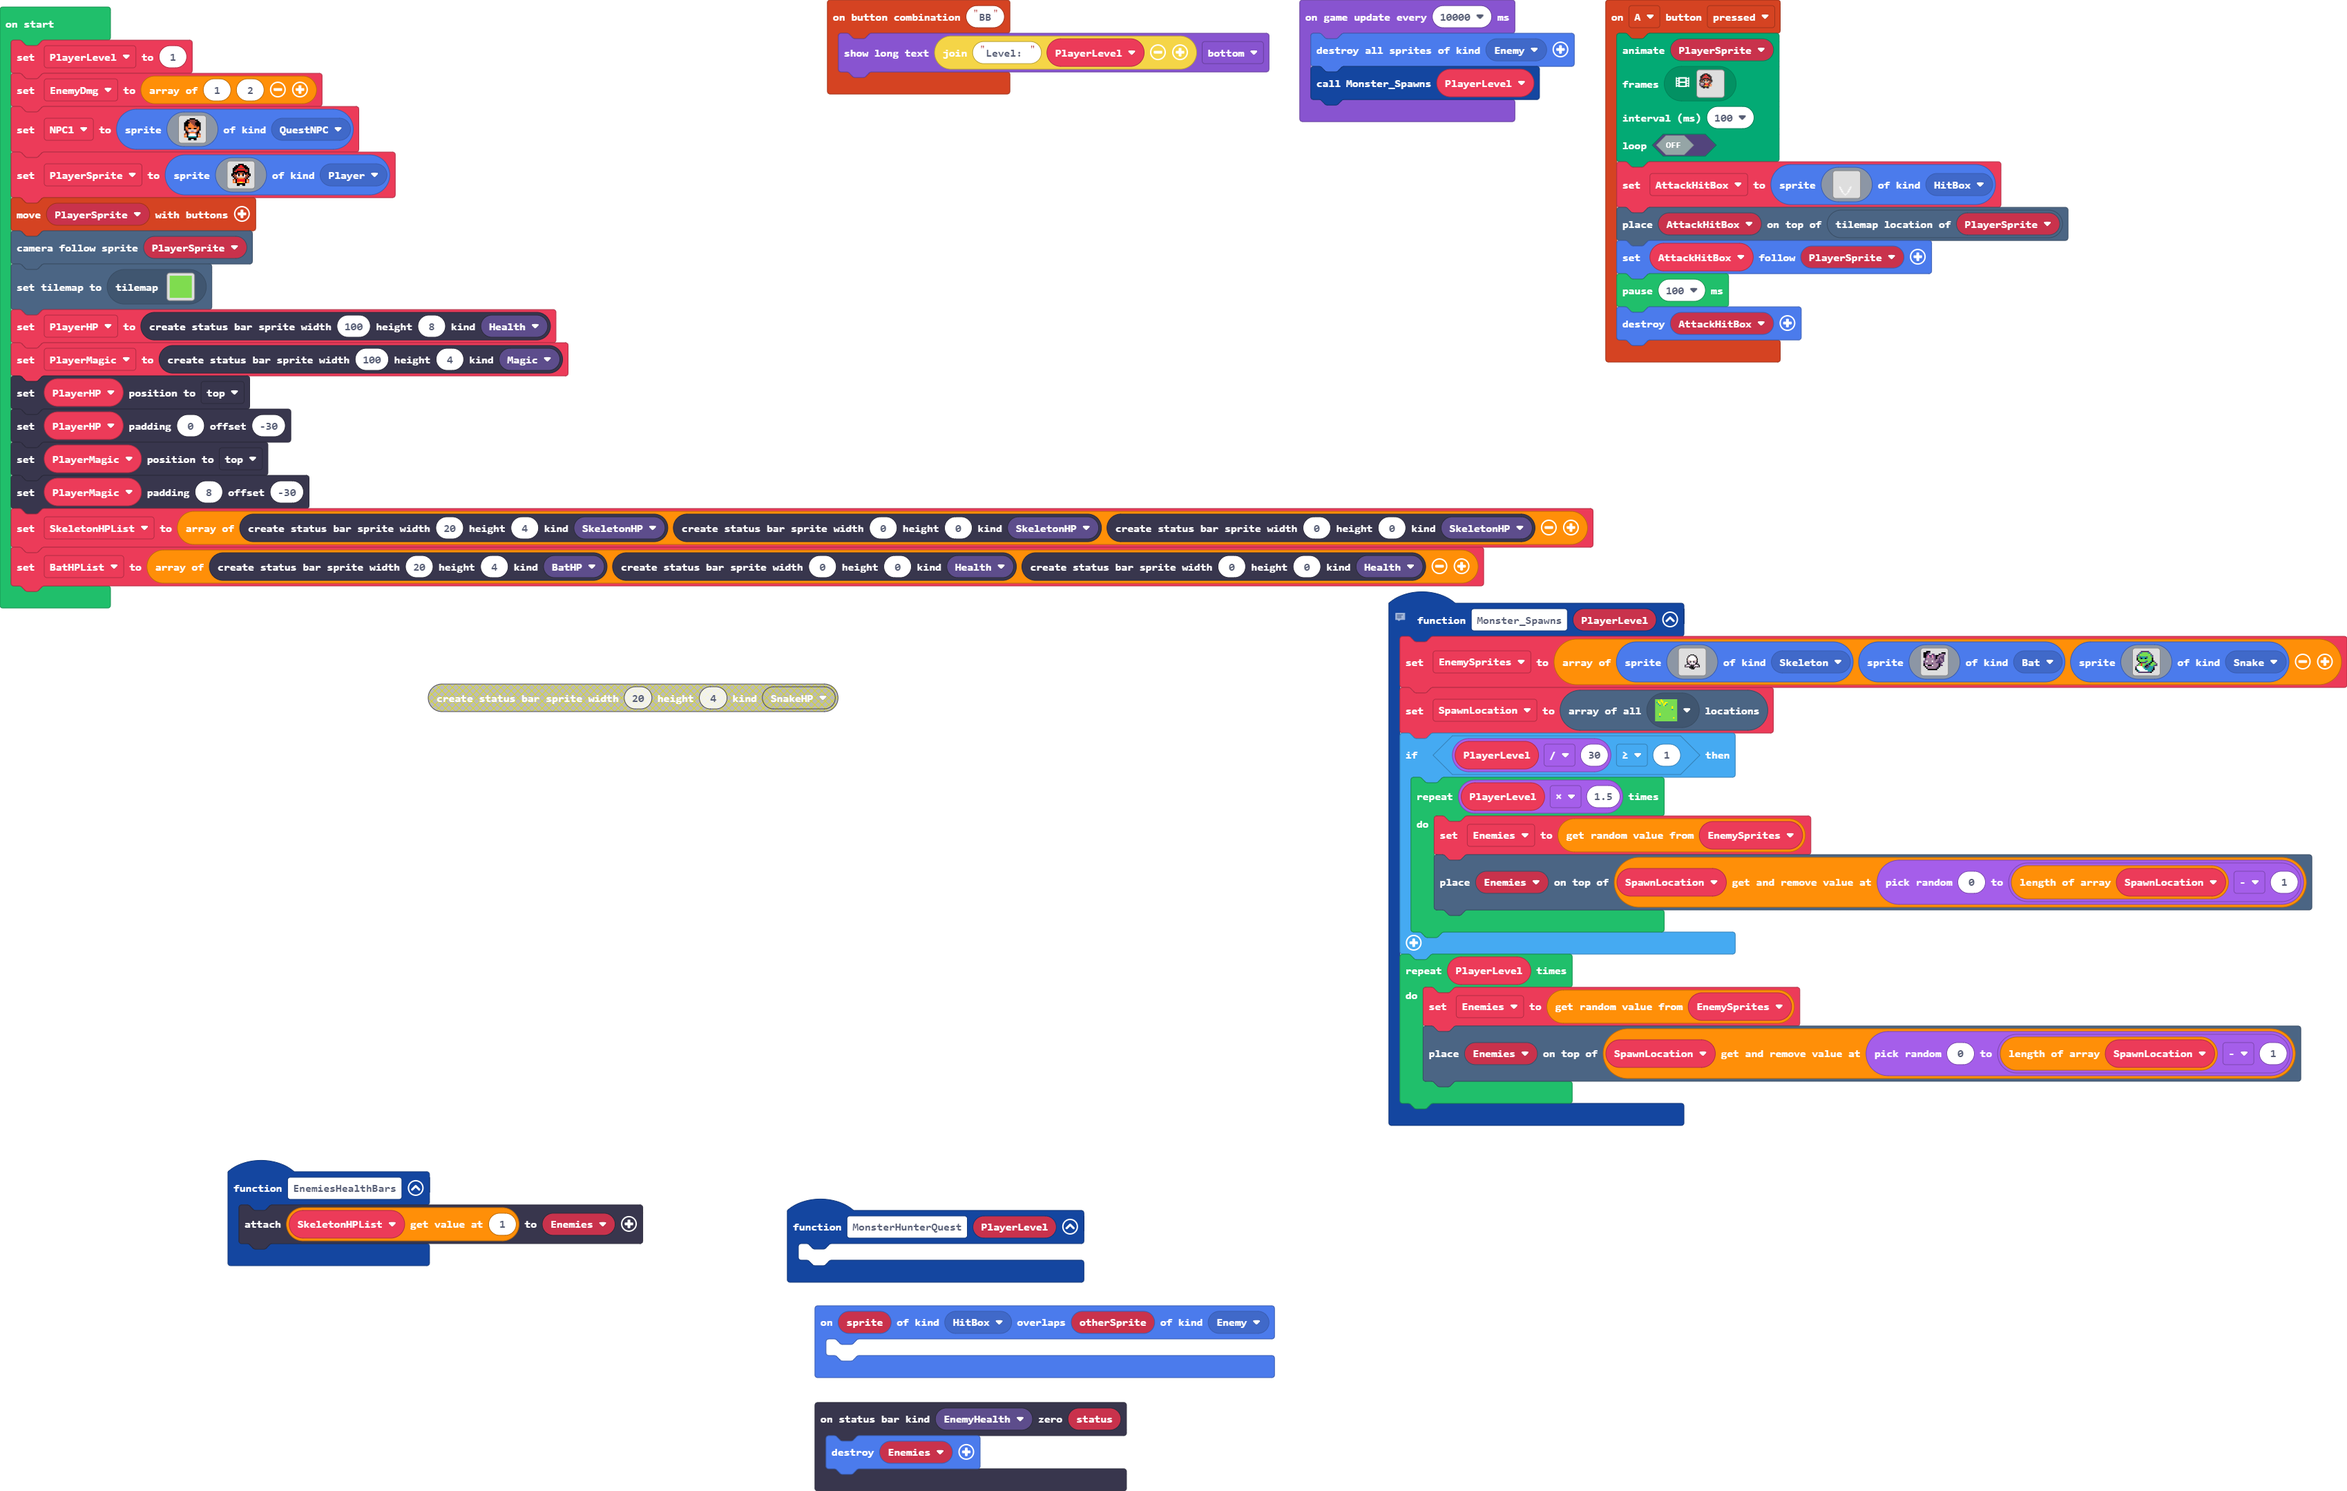
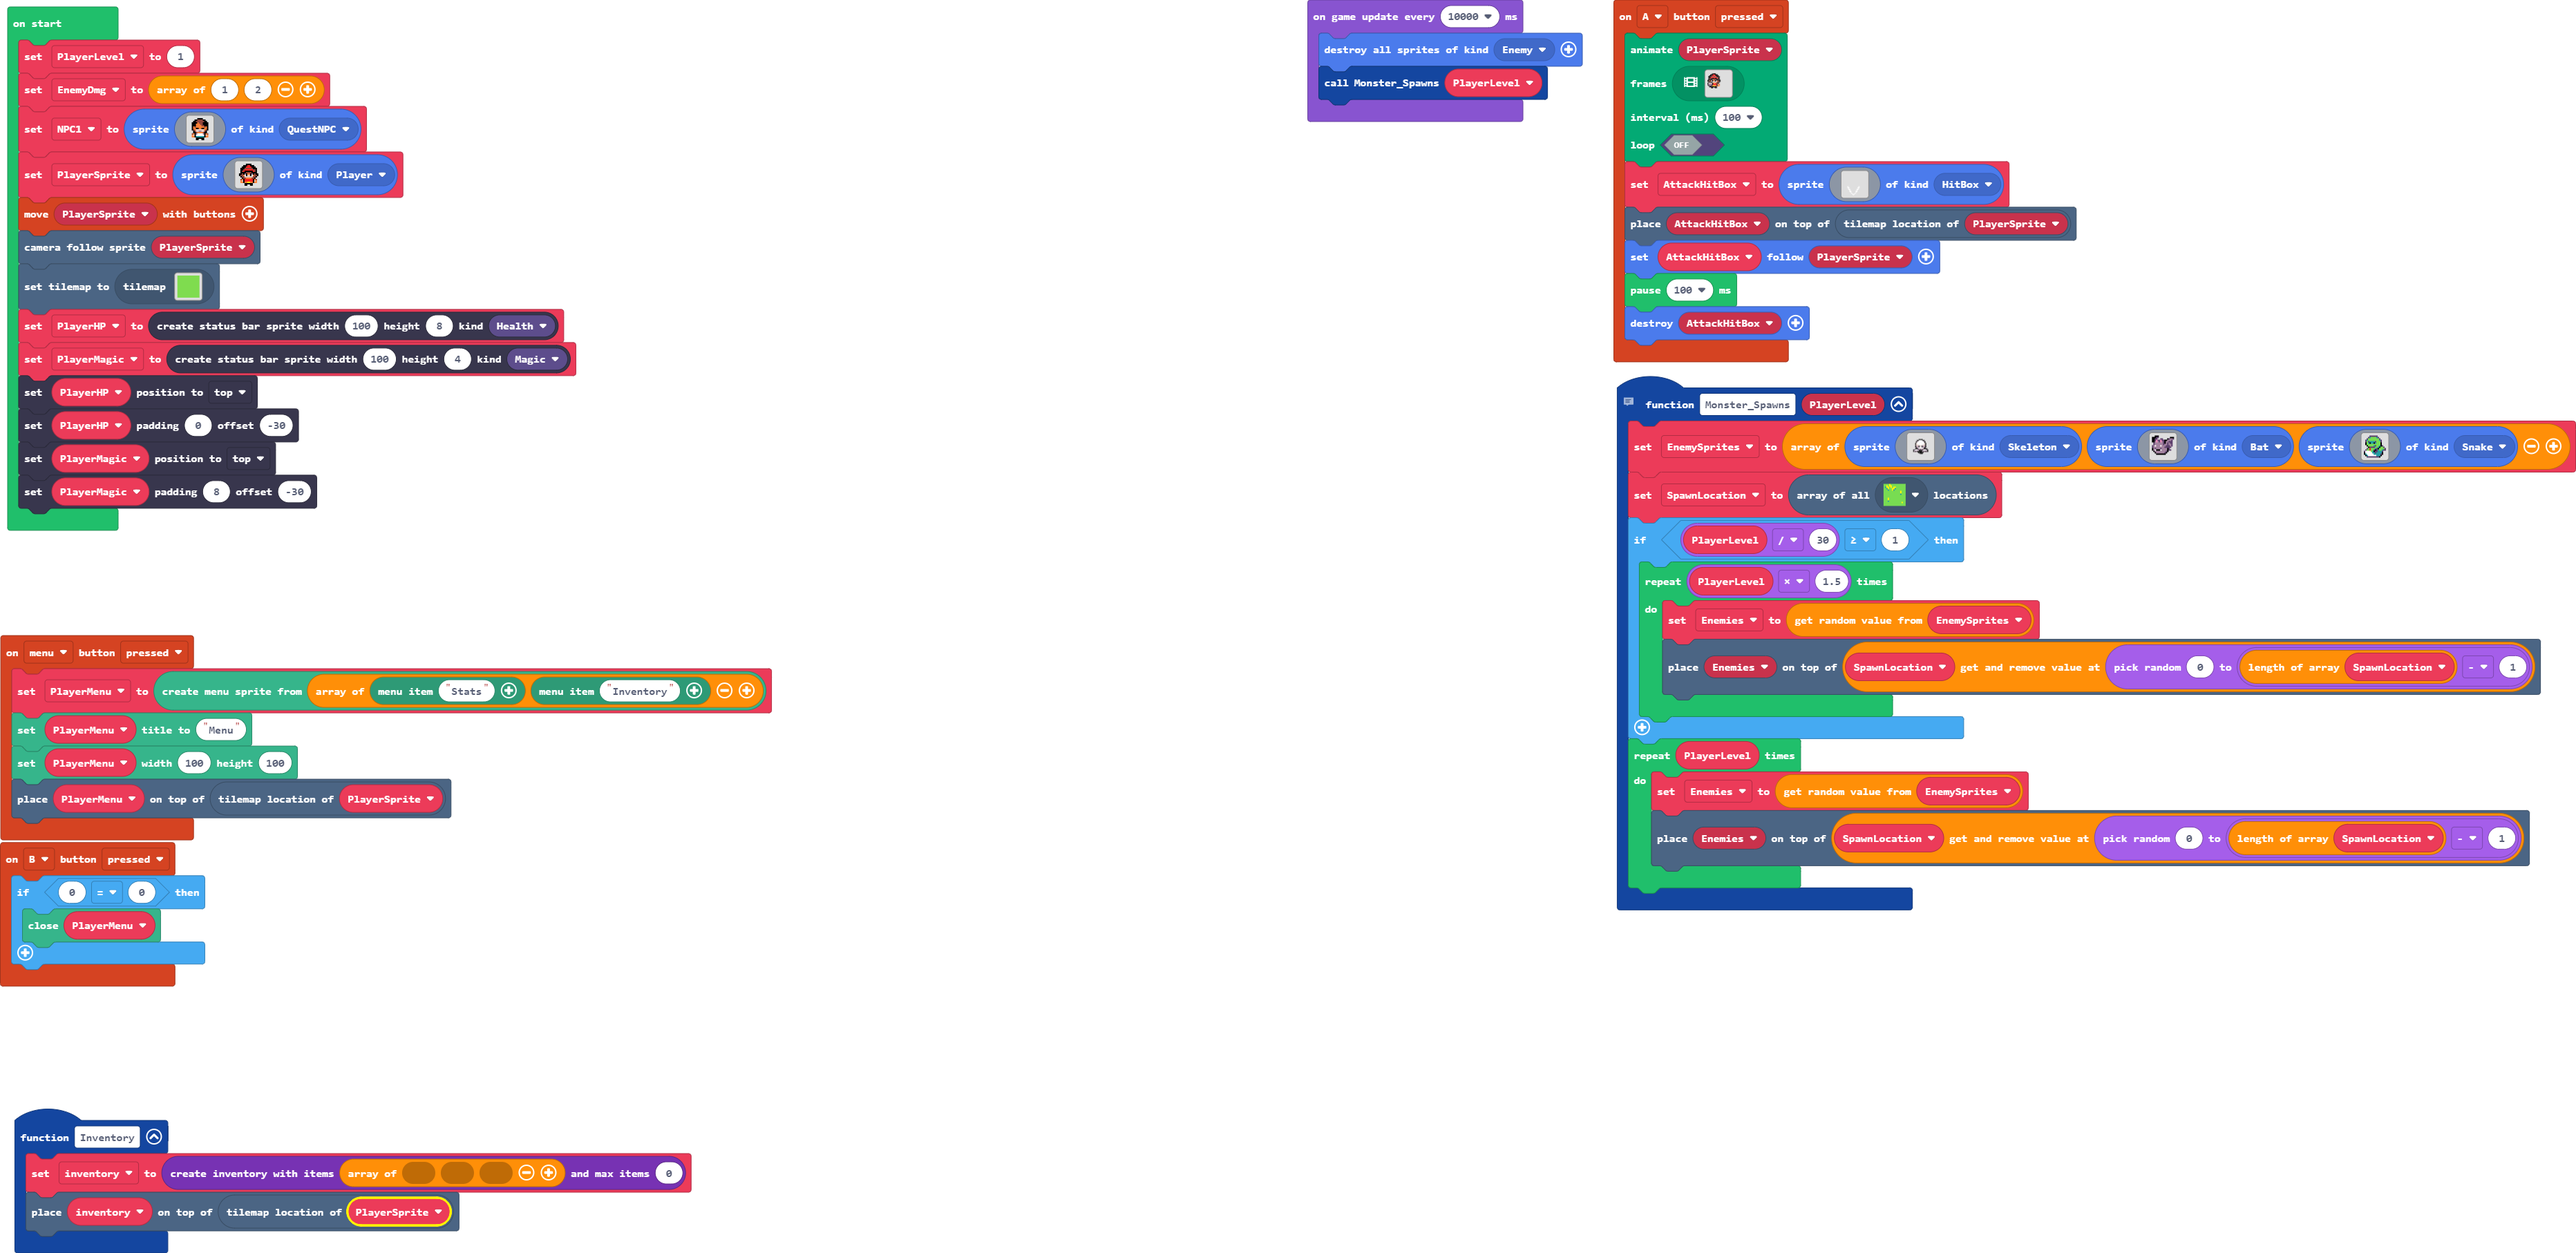
Update pxt.json, main.blocks, main.ts, tilemap.g.jres, tilemap.g.ts

diff --git a/main.ts b/main.ts
@@ -11,8 +11,10 @@ namespace StatusBarKind {
     export const SkeletonHP = StatusBarKind.create()
     export const BatHP = StatusBarKind.create()
 }
-controller.combos.attachCombo("BB", function () {
-    game.showLongText("Level: " + PlayerLevel, DialogLayout.Bottom)
+controller.B.onEvent(ControllerButtonEvent.Pressed, function () {
+    if (0 == 0) {
+        PlayerMenu.close()
+    }
 })
 controller.A.onEvent(ControllerButtonEvent.Pressed, function () {
     animation.runImageAnimation(
@@ -152,17 +154,15 @@ controller.A.onEvent(ControllerButtonEvent.Pressed, function () {
     pause(100)
     sprites.destroy(AttackHitBox)
 })
-statusbars.onZero(StatusBarKind.EnemyHealth, function (status) {
-    sprites.destroy(Enemies)
+controller.menu.onEvent(ControllerButtonEvent.Pressed, function () {
+    PlayerMenu = miniMenu.createMenuFromArray([miniMenu.createMenuItem("Stats"), miniMenu.createMenuItem("Inventory")])
+    PlayerMenu.setTitle("Menu")
+    PlayerMenu.setDimensions(100, 100)
+    tiles.placeOnTile(PlayerMenu, PlayerSprite.tilemapLocation())
 })
-function MonsterHunterQuest (PlayerLevel: number) {
-	
-}
-sprites.onOverlap(SpriteKind.HitBox, SpriteKind.Enemy, function (sprite, otherSprite) {
-	
-})
-function EnemiesHealthBars () {
-    SkeletonHPList[1].attachToSprite(Enemies)
+function Inventory2 () {
+    inventory = Inventory.create_inventory([], 0)
+    tiles.placeOnTile(inventory, PlayerSprite.tilemapLocation())
 }
 // Source Code provided By teacher
 function Monster_Spawns (PlayerLevel: number) {
@@ -238,14 +238,14 @@ function Monster_Spawns (PlayerLevel: number) {
         tiles.placeOnTile(Enemies, SpawnLocation.removeAt(randint(0, SpawnLocation.length - 1)))
     }
 }
+let Enemies: Sprite = null
 let SpawnLocation: tiles.Location[] = []
 let EnemySprites: Sprite[] = []
-let Enemies: Sprite = null
+let inventory: Inventory.Inventory = null
 let AttackHitBox: Sprite = null
-let SkeletonHPList: StatusBarSprite[] = []
+let PlayerMenu: miniMenu.MenuSprite = null
 let PlayerSprite: Sprite = null
-let PlayerLevel = 0
-PlayerLevel = 1
+let PlayerLevel = 1
 let EnemyDmg = [1, 2]
 let NPC1 = sprites.create(img`
     . . . . f f f f . . . . 
@@ -292,8 +292,6 @@ PlayerHP.positionDirection(CollisionDirection.Top)
 PlayerHP.setOffsetPadding(-30, 0)
 PlayerMagic.positionDirection(CollisionDirection.Top)
 PlayerMagic.setOffsetPadding(-30, 8)
-SkeletonHPList = [statusbars.create(20, 4, StatusBarKind.SkeletonHP), statusbars.create(0, 0, StatusBarKind.SkeletonHP), statusbars.create(0, 0, StatusBarKind.SkeletonHP)]
-let BatHPList = [statusbars.create(20, 4, StatusBarKind.BatHP), statusbars.create(0, 0, StatusBarKind.Health), statusbars.create(0, 0, StatusBarKind.Health)]
 game.onUpdateInterval(10000, function () {
     sprites.destroyAllSpritesOfKind(SpriteKind.Enemy)
     Monster_Spawns(PlayerLevel)

diff --git a/tilemap.g.ts b/tilemap.g.ts
@@ -127,6 +127,25 @@ namespace myTiles {
 . . . . . . . . . . . . . . . . 
 . . . . . . . . . . . . . . . . 
 `, [myTiles.transparency16,sprites.castle.tileGrass1], TileScale.Sixteen);
+            case "level2":
+            case "level2":return tiles.createTilemap(hex`1000100000000000000000000000000000000000000000000000000000000000000000000000000000000000000000000000000000000000000000000000000000000000000000000000000000000000000000000000000000000000000000000000000000000000000000000000000000000000000000000000000000000000000000000000000000000000000000000000000000000000000000000000000000000000000000000000000000000000000000000000000000000000000000000000000000000000000000000000000000000000000000000000000000000000000000000000000000000000000000000000000000000000000000000000000000000000`, img`
+. . . . . . . . . . . . . . . . 
+. . . . . . . . . . . . . . . . 
+. . . . . . . . . . . . . . . . 
+. . . . . . . . . . . . . . . . 
+. . . . . . . . . . . . . . . . 
+. . . . . . . . . . . . . . . . 
+. . . . . . . . . . . . . . . . 
+. . . . . . . . . . . . . . . . 
+. . . . . . . . . . . . . . . . 
+. . . . . . . . . . . . . . . . 
+. . . . . . . . . . . . . . . . 
+. . . . . . . . . . . . . . . . 
+. . . . . . . . . . . . . . . . 
+. . . . . . . . . . . . . . . . 
+. . . . . . . . . . . . . . . . 
+. . . . . . . . . . . . . . . . 
+`, [myTiles.transparency16], TileScale.Sixteen);
         }
         return null;
     })
